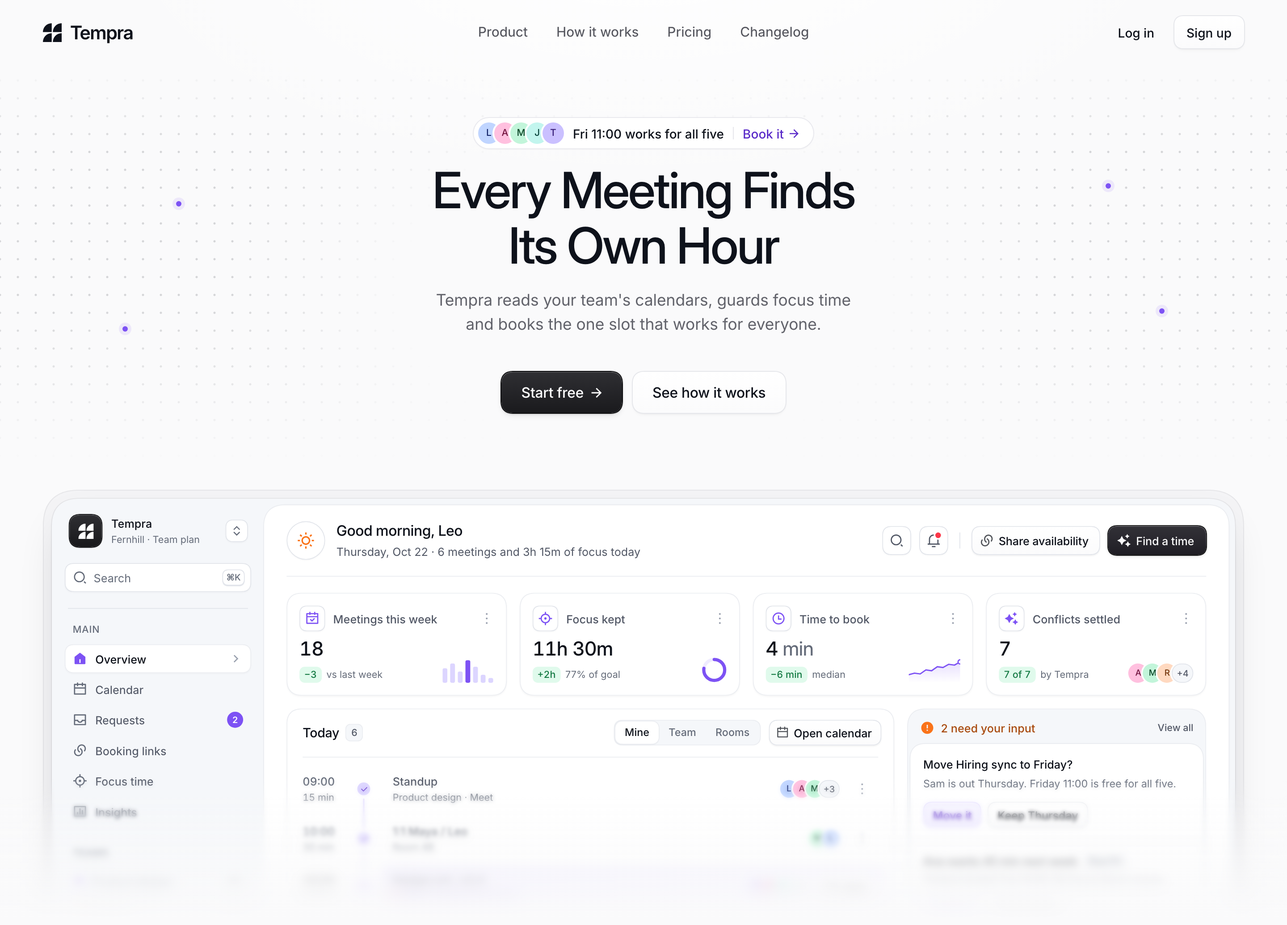
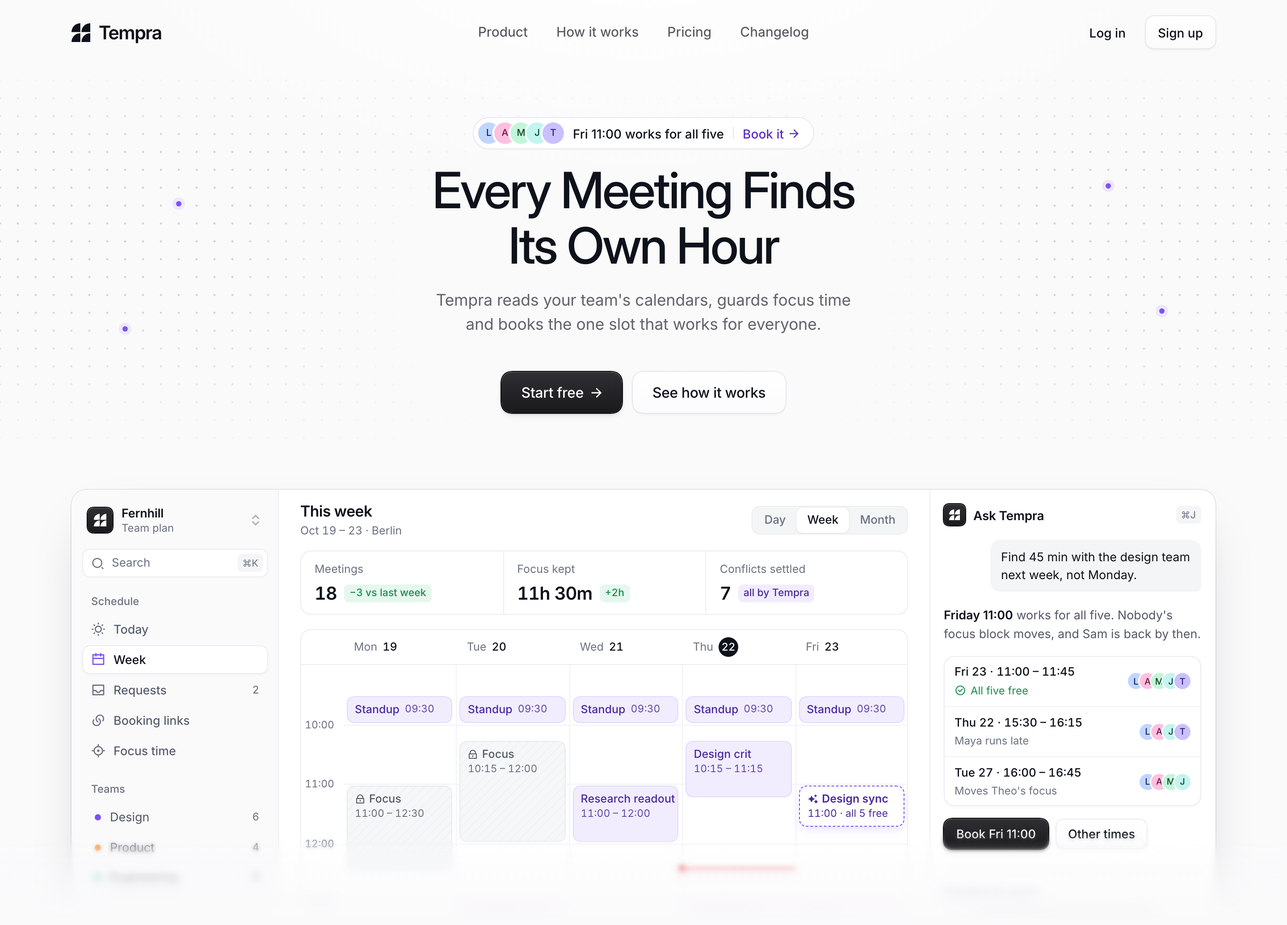
Tempra product r3: one window, quiet sidebar, one view (the week with the found slot), a 3-number strip and an Ask Tempra rail with one action; hero r7 holds that window alone on the nav's 80px edges, blur exit below the key moment; canon: three regions, no bezels, no KPI card rows

diff --git a/work/replicas/app/src/CadenceProductB.tsx b/work/replicas/app/src/CadenceProductB.tsx
@@ -1,0 +1,238 @@
+// Tempra product r3 (#/cprodb). cproda r2 was rejected: "too information heavy and unpolished and not clear... everything is a
+// little mess". The floor is our own accepted product grammar (Kestrel: sidebar + one view + one AI answer; Quorum: one joined
+// KPI strip): one white window with one hairline, a quiet sidebar, ONE primary view (the week, with the slot Tempra found), a
+// slim 3-number strip, and an Ask Tempra rail that answers and offers one action. Rounded per the founder: window 20,
+// cards 14, controls and events 10. One ink primary (Book). Solid pre-blended event fills so no gridline shows through. Sample data.
+import type { CSSProperties, ReactNode } from 'react'
+import {
+  RiCalendarLine, RiInboxLine, RiLinksLine, RiFocus3Line, RiSearch2Line, RiExpandUpDownLine, RiLockLine, RiSparkling2Fill,
+  RiArrowUpLine, RiMore2Line, RiSunLine, RiCheckboxCircleLine, RiArrowGoForwardLine, RiCloseCircleLine, RiShieldCheckLine,
+} from '@remixicon/react'
+import { Mark } from './TempraLogo'
+
+export const APP_W = 1280, APP_H = 820
+const T = {
+  ink: '#0E121B', sub: '#525866', mute: '#6B7180', faint: '#A3A9B6', line: '#ECEDF1', hair: '#F1F2F5', side: '#FAFAFB', weak: '#F4F5F7',
+  v: '#7D52F4', vInk: '#4B2A9E', vFill: '#F1EDFE', vRing: '#E2D9FD', pFill: '#FDEDF4', pRing: '#F7D5E4', pInk: '#8A1D4C',
+  green: '#178C4E', greenFill: '#E6F8EE', red: '#E5484D',
+}
+const font: CSSProperties = { fontFamily: '"Inter Variable", Inter, system-ui, sans-serif', fontOpticalSizing: 'auto', WebkitFontSmoothing: 'antialiased', color: T.ink }
+const row: CSSProperties = { display: 'flex', alignItems: 'center' }
+const tnum: CSSProperties = { fontVariantNumeric: 'tabular-nums' }
+const abs = (x: number, y: number, w?: number, h?: number, s: CSSProperties = {}): CSSProperties => ({ position: 'absolute', left: x, top: y, width: w, height: h, ...s })
+const RING = `inset 0 0 0 1px ${T.line}`
+const ink: CSSProperties = { background: 'linear-gradient(#2f2f33, #1a1a1d)', color: '#fff', boxShadow: '0 0 0 1px #0d0d0f, inset 0 1px 0 rgba(255,255,255,0.12), 0 1px 2px rgba(14,18,27,0.2)' }
+const stroke: CSSProperties = { background: 'linear-gradient(#FFFFFF, #FBFBFC)', color: T.ink, boxShadow: `inset 0 0 0 1px ${T.line}, 0 1px 2px rgba(14,18,27,0.05)` }
+const TINT: Record<string, [string, string]> = { L: ['#C0D5FF', '#122368'], A: ['#FFC0DF', '#71133E'], M: ['#C2F5DA', '#0B4627'], J: ['#C2F5EE', '#0B463E'], T: ['#CAC0FF', '#351A75'], S: ['#FFECC0', '#624C18'] }
+const Av = ({ i, s = 18 }: { i: string; s?: number }) => <span className="round" style={{ width: s, height: s, borderRadius: 999, background: TINT[i][0], color: TINT[i][1], boxShadow: '0 0 0 1.5px #fff', display: 'grid', placeItems: 'center', fontSize: Math.max(10, s * 0.46), fontWeight: 500, flex: 'none' }}>{i}</span>
+const Stack = ({ ids, s = 18 }: { ids: string[]; s?: number }) => <span style={{ ...row }}>{ids.map((i, k) => <span key={i} style={{ marginLeft: k ? -5 : 0, display: 'flex' }}><Av i={i} s={s} /></span>)}</span>
+
+// ================= sidebar =================
+function Item({ icon, label, active, count }: { icon: ReactNode; label: string; active?: boolean; count?: string }) {
+  return (
+    <div style={{ ...row, gap: 9, height: 32, padding: '0 10px', borderRadius: 10, background: active ? '#fff' : 'transparent', boxShadow: active ? `inset 0 0 0 1px ${T.line}, 0 1px 2px rgba(14,18,27,0.04)` : 'none', fontSize: 13.5, fontWeight: active ? 500 : 450, color: active ? T.ink : T.sub }}>
+      <span style={{ display: 'flex', color: active ? T.v : T.mute }}>{icon}</span>
+      <span style={{ flex: 1 }}>{label}</span>
+      {count && <span style={{ fontSize: 12, color: T.mute, ...tnum }}>{count}</span>}
+    </div>
+  )
+}
+const Group = ({ children }: { children: ReactNode }) => <div style={{ height: 28, padding: '0 10px', display: 'flex', alignItems: 'flex-end', paddingBottom: 6, boxSizing: 'border-box', fontSize: 12, fontWeight: 500, color: T.mute }}>{children}</div>
+function Sidebar() {
+  return (
+    <aside style={{ width: 232, flex: 'none', background: T.side, boxShadow: `inset -1px 0 0 ${T.line}`, padding: '14px 12px', boxSizing: 'border-box', display: 'flex', flexDirection: 'column' }}>
+      <div style={{ ...row, gap: 10, height: 40, padding: '0 6px' }}>
+        <span style={{ display: 'grid', placeItems: 'center', width: 28, height: 28, borderRadius: 8, ...ink }}><Mark size={14} /></span>
+        <span style={{ flex: 1, display: 'flex', flexDirection: 'column' }}>
+          <span style={{ fontSize: 13.5, fontWeight: 600, lineHeight: '18px', letterSpacing: '-0.01em' }}>Fernhill</span>
+          <span style={{ fontSize: 12, lineHeight: '16px', color: T.mute }}>Team plan</span>
+        </span>
+        <RiExpandUpDownLine size={16} color={T.faint} />
+      </div>
+      <div style={{ ...row, gap: 8, height: 32, marginTop: 12, padding: '0 6px 0 10px', borderRadius: 10, background: '#fff', boxShadow: `inset 0 0 0 1px ${T.line}`, fontSize: 13, color: T.mute }}>
+        <RiSearch2Line size={15} /><span style={{ flex: 1 }}>Search</span>
+        <span style={{ height: 20, padding: '0 5px', borderRadius: 6, background: T.weak, display: 'grid', placeItems: 'center', fontSize: 11, color: T.mute }}>⌘K</span>
+      </div>
+      <div style={{ marginTop: 14 }}><Group>Schedule</Group></div>
+      <div style={{ display: 'flex', flexDirection: 'column', gap: 2 }}>
+        <Item icon={<RiSunLine size={16} />} label="Today" />
+        <Item icon={<RiCalendarLine size={16} />} label="Week" active />
+        <Item icon={<RiInboxLine size={16} />} label="Requests" count="2" />
+        <Item icon={<RiLinksLine size={16} />} label="Booking links" />
+        <Item icon={<RiFocus3Line size={16} />} label="Focus time" />
+      </div>
+      <div style={{ marginTop: 14 }}><Group>Teams</Group></div>
+      <div style={{ display: 'flex', flexDirection: 'column', gap: 2 }}>
+        {([['Design', T.v, '6'], ['Product', '#F2994A', '4'], ['Engineering', '#22B8A6', '9']] as const).map(([n, c, k]) => (
+          <div key={n} style={{ ...row, gap: 10, height: 32, padding: '0 10px 0 14px', fontSize: 13.5, color: T.sub }}>
+            <span className="round" style={{ width: 7, height: 7, borderRadius: 999, background: c }} /><span style={{ flex: 1 }}>{n}</span><span style={{ fontSize: 12, color: T.mute, ...tnum }}>{k}</span>
+          </div>
+        ))}
+      </div>
+      <div style={{ marginTop: 'auto', ...row, gap: 10, height: 44, padding: '0 6px', borderTop: `1px solid ${T.line}`, paddingTop: 10 }}>
+        <Av i="L" s={28} />
+        <span style={{ display: 'flex', flexDirection: 'column', flex: 1 }}>
+          <span style={{ fontSize: 13, fontWeight: 500, lineHeight: '17px' }}>Leo Park</span>
+          <span style={{ fontSize: 12, lineHeight: '16px', color: T.mute }}>leo@fernhill.co</span>
+        </span>
+        <RiMore2Line size={16} color={T.faint} />
+      </div>
+    </aside>
+  )
+}
+
+// ================= the week =================
+type Kind = 'v' | 'p' | 'focus'
+const EVENTS: [number, number, number, string, Kind][] = [
+  [0, 9.5, 10, 'Standup', 'v'], [0, 11, 12.5, 'Focus', 'focus'], [0, 14, 15, 'Design review', 'p'], [0, 16, 17, 'Interview', 'v'],
+  [1, 9.5, 10, 'Standup', 'v'], [1, 10.25, 12, 'Focus', 'focus'], [1, 13, 14, 'Customer call', 'p'], [1, 15.5, 16.5, '1:1 Maya', 'v'],
+  [2, 9.5, 10, 'Standup', 'v'], [2, 11, 12, 'Research readout', 'v'], [2, 14, 16, 'Focus', 'focus'],
+  [3, 9.5, 10, 'Standup', 'v'], [3, 10.25, 11.25, 'Design crit', 'v'], [3, 13, 14, 'Hiring panel', 'p'], [3, 15, 17, 'Focus', 'focus'],
+  [4, 9.5, 10, 'Standup', 'v'], [4, 13, 14, 'Retro', 'p'], [4, 15, 16, 'Plan next week', 'v'],
+]
+const fmt = (h: number) => `${String(Math.floor(h)).padStart(2, '0')}:${String(Math.round((h % 1) * 60)).padStart(2, '0')}`
+function Week({ w, h }: { w: number; h: number }) {
+  const G = 48, HEAD = 40, H0 = 9, HR = (h - HEAD) / 9, cw = (w - G) / 5
+  const y = (t: number) => HEAD + (t - H0) * HR
+  const days = ['Mon 19', 'Tue 20', 'Wed 21', 'Thu 22', 'Fri 23']
+  return (
+    <section aria-label="Sample week" style={{ position: 'relative', width: w, height: h, borderRadius: 14, background: '#fff', boxShadow: RING, overflow: 'hidden' }}>
+      {days.map((d, i) => {
+        const [dn, num] = d.split(' ')
+        return (
+          <div key={d} style={abs(G + i * cw, 0, cw, HEAD, { ...row, gap: 6, padding: '0 12px', boxSizing: 'border-box', fontSize: 12.5, color: T.mute })}>
+            {dn}
+            {i === 3
+              ? <span className="round" style={{ width: 22, height: 22, borderRadius: 999, background: T.ink, color: '#fff', display: 'grid', placeItems: 'center', fontSize: 12, fontWeight: 500, ...tnum }}>{num}</span>
+              : <span style={{ color: T.ink, fontWeight: 500, ...tnum }}>{num}</span>}
+          </div>
+        )
+      })}
+      <div style={abs(0, HEAD - 1, w, 1, { background: T.line })} />
+      {Array.from({ length: 9 }, (_, k) => H0 + k).map((t) => (
+        <div key={t}>
+          {t > H0 && <div style={abs(G, y(t), w - G, 1, { background: T.hair })} />}
+          <div style={abs(0, y(t) - 8, G - 10, 16, { textAlign: 'right', fontSize: 11.5, lineHeight: '16px', color: T.mute, ...tnum })}>{t > H0 ? fmt(t) : ''}</div>
+        </div>
+      ))}
+      {[1, 2, 3, 4].map((i) => <div key={i} style={abs(G + i * cw, HEAD, 1, h - HEAD, { background: T.hair })} />)}
+      {EVENTS.map(([d, a, b, title, k]) => {
+        const top = y(a) + 2, height = (b - a) * HR - 4, short = height < 40
+        const look: CSSProperties = k === 'v' ? { background: T.vFill, boxShadow: `inset 0 0 0 1px ${T.vRing}`, color: T.vInk }
+          : k === 'p' ? { background: T.pFill, boxShadow: `inset 0 0 0 1px ${T.pRing}`, color: T.pInk }
+          : { background: `repeating-linear-gradient(135deg, #F6F7F9 0 6px, #EFF1F4 6px 7px)`, boxShadow: `inset 0 0 0 1px #E7E9EE`, color: T.sub }
+        return (
+          <div key={`${d}${a}`} style={abs(G + d * cw + 4, top, cw - 8, height, { borderRadius: 10, boxSizing: 'border-box', padding: short ? '0 9px' : '7px 9px', display: 'flex', flexDirection: short ? 'row' : 'column', alignItems: short ? 'center' : 'stretch', gap: short ? 6 : 1, overflow: 'hidden', ...look })}>
+            <span style={{ ...row, gap: 4, fontSize: 12.5, fontWeight: 500, lineHeight: '16px', whiteSpace: 'nowrap' }}>{k === 'focus' && <RiLockLine size={12} />}{title}</span>
+            <span style={{ fontSize: 11.5, lineHeight: '15px', opacity: 0.85, whiteSpace: 'nowrap', ...tnum }}>{fmt(a)}{short ? '' : ` – ${fmt(b)}`}</span>
+          </div>
+        )
+      })}
+      {/* the slot Tempra found: Fri 11:00-11:45, free for all five */}
+      <div style={abs(G + 4 * cw + 4, y(11) + 2, cw - 8, 0.75 * HR - 4, { borderRadius: 10, boxSizing: 'border-box', padding: '6px 9px', background: '#fff', border: `1.5px dashed ${T.v}`, boxShadow: '0 4px 12px -4px rgba(125,82,244,0.28)', color: T.vInk, display: 'flex', flexDirection: 'column', gap: 1 })}>
+        <span style={{ ...row, gap: 4, fontSize: 12.5, fontWeight: 600, lineHeight: '16px', whiteSpace: 'nowrap' }}><RiSparkling2Fill size={12} />Design sync</span>
+        <span style={{ fontSize: 11.5, lineHeight: '15px', whiteSpace: 'nowrap', ...tnum }}>11:00 · all 5 free</span>
+      </div>
+      {/* now: Thursday column only, at a free moment so it crosses no event */}
+      <div style={abs(G + 3 * cw, y(12.4), cw, 2, { background: T.red, borderRadius: 1 })} />
+      <span className="round" style={abs(G + 3 * cw - 4, y(12.4) - 3, 8, 8, { borderRadius: 999, background: T.red })} />
+    </section>
+  )
+}
+
+// ================= Ask Tempra =================
+function Rail() {
+  const opts: [string, string, string[], boolean][] = [
+    ['Fri 23 · 11:00 – 11:45', 'All five free', ['L', 'A', 'M', 'J', 'T'], true],
+    ['Thu 22 · 15:30 – 16:15', 'Maya runs late', ['L', 'A', 'J', 'T'], false],
+    ['Tue 27 · 16:00 – 16:45', "Moves Theo's focus", ['L', 'A', 'M', 'J'], false],
+  ]
+  return (
+    <aside aria-label="Ask Tempra, sample answer" style={{ width: 320, flex: 'none', boxShadow: `inset 1px 0 0 ${T.line}`, display: 'flex', flexDirection: 'column', padding: '0 16px 16px', boxSizing: 'border-box' }}>
+      <div style={{ ...row, gap: 9, height: 56 }}>
+        <span style={{ display: 'grid', placeItems: 'center', width: 24, height: 24, borderRadius: 7, ...ink }}><Mark size={12} /></span>
+        <span style={{ fontSize: 14, fontWeight: 600, letterSpacing: '-0.01em' }}>Ask Tempra</span>
+        <span style={{ marginLeft: 'auto', height: 20, padding: '0 6px', borderRadius: 6, background: T.weak, display: 'grid', placeItems: 'center', fontSize: 11, color: T.mute }}>⌘J</span>
+      </div>
+      <div style={{ alignSelf: 'flex-end', maxWidth: 236, padding: '9px 12px', borderRadius: 14, borderBottomRightRadius: 6, background: T.weak, fontSize: 13.5, lineHeight: '20px' }}>Find 45 min with the design team next week, not Monday.</div>
+      <p style={{ margin: '16px 0 0', fontSize: 13.5, lineHeight: '21px', color: T.sub }}><b style={{ color: T.ink, fontWeight: 600 }}>Friday 11:00</b> works for all five. Nobody's focus block moves, and Sam is back by then.</p>
+      <div style={{ marginTop: 14, borderRadius: 14, background: '#fff', boxShadow: `${RING}, 0 1px 2px rgba(14,18,27,0.04)` }}>
+        {opts.map(([when, why, ids, best], k) => (
+          <div key={when} style={{ ...row, gap: 10, height: 56, padding: '0 12px', borderTop: k ? `1px solid ${T.hair}` : 'none' }}>
+            <span style={{ display: 'flex', flexDirection: 'column', gap: 2, flex: 1 }}>
+              <span style={{ fontSize: 13, fontWeight: 500, ...tnum }}>{when}</span>
+              <span style={{ ...row, gap: 5, fontSize: 12, color: best ? T.green : T.mute }}>{best && <RiCheckboxCircleLine size={13} />}{why}</span>
+            </span>
+            <Stack ids={ids} s={18} />
+          </div>
+        ))}
+      </div>
+      <div style={{ ...row, gap: 8, marginTop: 14 }}>
+        <span style={{ ...row, height: 34, padding: '0 14px', borderRadius: 11, fontSize: 13.5, fontWeight: 500, ...ink }}>Book Fri 11:00</span>
+        <span style={{ ...row, height: 34, padding: '0 14px', borderRadius: 11, fontSize: 13.5, fontWeight: 500, ...stroke }}>Other times</span>
+      </div>
+      <div style={{ marginTop: 24, paddingTop: 16, borderTop: `1px solid ${T.line}` }}>
+        <div style={{ fontSize: 12, fontWeight: 500, color: T.mute, marginBottom: 6 }}>Handled this week</div>
+        {([[<RiArrowGoForwardLine size={14} />, 'Moved Roadmap review to Wed', "Clashed with Ana's focus"], [<RiCloseCircleLine size={14} />, 'Declined a vendor demo', 'Outside working hours'], [<RiShieldCheckLine size={14} />, 'Protected 4 focus blocks', 'Mornings, Mon to Thu']] as const).map(([ic, t, d]) => (
+          <div key={t} style={{ ...row, gap: 10, height: 48 }}>
+            <span style={{ display: 'grid', placeItems: 'center', width: 28, height: 28, borderRadius: 9, background: T.weak, color: T.sub, flex: 'none' }}>{ic}</span>
+            <span style={{ display: 'flex', flexDirection: 'column', gap: 1 }}>
+              <span style={{ fontSize: 13, fontWeight: 500 }}>{t}</span>
+              <span style={{ fontSize: 12, color: T.mute }}>{d}</span>
+            </span>
+          </div>
+        ))}
+      </div>
+      <div style={{ marginTop: 'auto', ...row, gap: 8, height: 44, padding: '0 6px 0 14px', borderRadius: 14, background: '#fff', boxShadow: `${RING}, 0 1px 2px rgba(14,18,27,0.04)`, fontSize: 13.5, color: T.mute }}>
+        <span style={{ flex: 1 }}>Ask about your week…</span>
+        <span className="round" style={{ width: 30, height: 30, borderRadius: 999, display: 'grid', placeItems: 'center', background: T.weak, color: T.mute }}><RiArrowUpLine size={16} /></span>
+      </div>
+    </aside>
+  )
+}
+
+// ================= the window =================
+export function TempraApp({ inHero, style }: { inHero?: boolean; style?: CSSProperties }) {
+  const H1 = inHero ? 'p' : 'h1'
+  const Main = inHero ? 'div' : 'main'
+  const kpis: [string, string, string][] = [['Meetings', '18', '−3 vs last week'], ['Focus kept', '11h 30m', '+2h'], ['Conflicts settled', '7', 'all by Tempra']]
+  return (
+    <div data-product style={{ ...font, position: 'relative', width: APP_W, height: APP_H, borderRadius: 20, background: '#fff', overflow: 'hidden', display: 'flex', boxShadow: '0 0 0 1px rgba(14,18,27,0.08), 0 1px 2px rgba(14,18,27,0.04), 0 24px 60px -24px rgba(14,18,27,0.22)', ...style }}>
+      <Sidebar />
+      <Main aria-label="Tempra week, sample data" style={{ flex: 1, padding: '0 24px 24px', boxSizing: 'border-box', display: 'flex', flexDirection: 'column' }}>
+        <div style={{ ...row, height: 68 }}>
+          <div style={{ display: 'flex', flexDirection: 'column', gap: 2 }}>
+            <H1 style={{ margin: 0, fontSize: 17, lineHeight: '22px', fontWeight: 600, letterSpacing: '-0.015em' }}>This week</H1>
+            <span style={{ fontSize: 12.5, color: T.mute, ...tnum }}>Oct 19 – 23 · Berlin</span>
+          </div>
+          <div style={{ marginLeft: 'auto', ...row, height: 32, padding: 2, boxSizing: 'border-box', borderRadius: 11, background: T.weak, boxShadow: `inset 0 0 0 1px ${T.line}` }}>
+            {['Day', 'Week', 'Month'].map((o) => (
+              <span key={o} style={{ height: 28, padding: '0 12px', borderRadius: 9, display: 'grid', placeItems: 'center', fontSize: 13, fontWeight: 500, color: o === 'Week' ? T.ink : T.mute, background: o === 'Week' ? '#fff' : 'transparent', boxShadow: o === 'Week' ? `0 0 0 1px ${T.line}, 0 1px 2px rgba(14,18,27,0.06)` : 'none' }}>{o}</span>
+            ))}
+          </div>
+        </div>
+        <div style={{ display: 'flex', borderRadius: 14, boxShadow: RING, height: 72, flex: 'none' }}>
+          {kpis.map(([l, v, d], k) => (
+            <div key={l} style={{ flex: 1, padding: '12px 16px', boxShadow: k ? `inset 1px 0 0 ${T.line}` : 'none', display: 'flex', flexDirection: 'column', gap: 4 }}>
+              <span style={{ fontSize: 12.5, color: T.mute }}>{l}</span>
+              <span style={{ ...row, gap: 8 }}>
+                <span style={{ fontSize: 20, lineHeight: '26px', fontWeight: 600, letterSpacing: '-0.02em', ...tnum }}>{v}</span>
+                <span style={{ height: 20, padding: '0 6px', borderRadius: 6, display: 'grid', placeItems: 'center', fontSize: 11.5, fontWeight: 500, background: k === 2 ? T.vFill : T.greenFill, color: k === 2 ? T.vInk : T.green, ...tnum }}>{d}</span>
+              </span>
+            </div>
+          ))}
+        </div>
+        <div style={{ marginTop: 16 }}><Week w={APP_W - 232 - 320 - 48} h={APP_H - 68 - 72 - 16 - 24} /></div>
+      </Main>
+      <Rail />
+    </div>
+  )
+}
+
+export default function CadenceProductB() {
+  return (
+    <div style={{ width: 1440, height: 980, background: 'radial-gradient(1000px 600px at 50% 0%, #F7F7F9, #ECEDF0)', position: 'relative', overflow: 'hidden' }}>
+      <TempraApp style={{ position: 'absolute', left: 80, top: 80 }} />
+    </div>
+  )
+}

diff --git a/work/replicas/app/src/CadenceHeroD.tsx b/work/replicas/app/src/CadenceHeroD.tsx
@@ -1,4 +1,5 @@
-// Tempra hero r6 (#/h4a). r2 verdict: rounder product, "the background visual needs better polishing", the violet bottom glow
+// Tempra hero r7 (#/h4a): r3 rejected the bezel and the busy product; the hero now holds the r3 product window alone.
+// r6 notes: r2 verdict: rounder product, "the background visual needs better polishing", the violet bottom glow
 // was "stupid and vibrant, either blur fade out or none", "nav bar ugly", "title too", the grid and chips were distracting,
 // "I liked the points or bubbles... sth cleaner". So: a neutral page, a fine dot field (points) that lives only at the sides
 // and fades away from the copy, a handful of availability points lit in violet, a calmer h1, a nav on the frame's edges with a
@@ -6,9 +7,9 @@
 import type { CSSProperties } from 'react'
 import { RiArrowRightLine } from '@remixicon/react'
 import TempraLockup from './TempraLogo'
-import { CadenceAppFrame } from './CadenceProductA'
+import { TempraApp, APP_W } from './CadenceProductB'
 
-const W = 1440, H = 1035, INK = '#0E121B', PAGE = '#FAFAFB', EDGE = 48
+const W = 1440, H = 1035, INK = '#0E121B', PAGE = '#FAFAFB', EDGE = 80
 const abs = (x: number, y: number, s: CSSProperties = {}): CSSProperties => ({ position: 'absolute', left: x, top: y, ...s })
 
 // ---- the points: a 20px dot lattice kept to the sides (clear around the copy, gone before the product) ----
@@ -50,7 +51,7 @@ function FoundPill() {
 // ---- progressive blur: four backdrop-blur bands, each masked to start lower, then a fade to the page colour ----
 function BlurOut({ top }: { top: number }) {
   const h = H - top
-  const bands = [[2, 0], [4, 0.25], [8, 0.5], [14, 0.72]]
+  const bands = [[2, 0], [4, 0.2], [8, 0.42], [14, 0.64]]
   return (
     <div aria-hidden style={abs(0, top, { width: W, height: h, pointerEvents: 'none' })}>
       {bands.map(([b, from]) => {
@@ -63,8 +64,7 @@ function BlurOut({ top }: { top: number }) {
 }
 
 export default function CadenceHeroD() {
-  const S = (W - 2 * EDGE - 20) / 1472, TOP = 548
-  return (
+    return (
     <main style={{ position: 'relative', width: W, height: H, overflow: 'hidden', background: PAGE, fontFamily: '"Inter Variable", Inter, sans-serif', fontOpticalSizing: 'auto', WebkitFontSmoothing: 'antialiased', color: INK }}>
       <div aria-hidden style={{ position: 'absolute', inset: 0, background: 'radial-gradient(900px 420px at 50% -80px, #FFFFFF, rgba(255,255,255,0) 70%)' }} />
       <Points />
@@ -89,12 +89,11 @@ export default function CadenceHeroD() {
         <a href="#/h4a" style={{ height: 46, padding: '0 22px', borderRadius: 14, display: 'flex', alignItems: 'center', fontSize: 16, fontWeight: 500, letterSpacing: '-0.01em', textDecoration: 'none', ...white }}>See how it works</a>
       </div>
 
-      {/* product: a quiet grey bezel (r42) holding the app at a 10px inset; the app's own frame is r36 x S (concentric) */}
-      <div style={abs(EDGE, TOP, { width: W - 2 * EDGE, height: H - TOP + 40, borderRadius: 42, background: 'rgba(14,18,27,0.025)', boxShadow: 'inset 0 0 0 1px rgba(14,18,27,0.06)' })} />
-      <div style={abs(EDGE + 10, TOP + 10, { width: 1472, height: 1072, transform: `scale(${S})`, transformOrigin: '0 0' })}>
-        <CadenceAppFrame inHero />
+      {/* product: the app window alone, one hairline + one soft drop, on the same 80px edges as the nav (r3 verdict: no bezel) */}
+      <div style={abs(EDGE, 548, { width: APP_W, height: 820 })}>
+        <TempraApp inHero />
       </div>
-      <BlurOut top={870} />
+      <BlurOut top={930} />
     </main>
   )
 }

diff --git a/work/replicas/app/src/main.tsx b/work/replicas/app/src/main.tsx
@@ -32,6 +32,7 @@ import CadenceBentoL from './CadenceBentoL'
 import CadenceProductK from './CadenceProductK'
 import CadenceProductA, { CadenceProductAX } from './CadenceProductA'
 import CadenceHeroD from './CadenceHeroD'
+import CadenceProductB from './CadenceProductB'
 import { CadenceHeroA, CadenceHeroB, CadenceHeroC } from './CadenceHeroes3'
 import { CadenceHeroV1, CadenceHeroV2, CadenceHeroV3 } from './CadenceHeroes'
 import RicoR1 from './RicoR1'
@@ -52,6 +53,6 @@ import KargulHeroC from './KargulHeroC'
 import KargulHeroD from './KargulHeroD'
 
 // replicas: #/finance (AlignUI Transactions); more references are added as routes
-const ROUTES: Record<string, () => React.JSX.Element> = { '#/finance': Finance, '#/clokora': Clokora, '#/decision': Decision, '#/search': Search, '#/calendar': Calendar, '#/event': EventCard, '#/bento': Bento, '#/kiso': KargulIso, '#/bentok': BentoK, '#/khero': KargulHero, '#/attio': AttioHero, '#/linear': LinearHero, '#/glass': CadenceGlass, '#/lbento': LinearBento, '#/abento': AttioBento, '#/alignbento': AlignBento, '#/affectbento': AffectBento, '#/cfig': CadenceFig, '#/cattio': CadenceAttio, '#/calign': CadenceAlign, '#/caffect': CadenceAffect, '#/tkanban': TanjimKanban, '#/capp': CadenceApp, '#/chero': CadenceHero, '#/crico': CadenceRico, '#/cxpost': CadenceXPost, '#/cxslices': CadenceXSlices, '#/cbentol': CadenceBentoL, '#/cprodk': CadenceProductK, '#/cproda': CadenceProductA, '#/cprodax': CadenceProductAX, '#/h4a': CadenceHeroD, '#/h3a': CadenceHeroA, '#/h3b': CadenceHeroB, '#/h3c': CadenceHeroC, '#/chv1': CadenceHeroV1, '#/chv2': CadenceHeroV2, '#/chv3': CadenceHeroV3, '#/ricor1': RicoR1, '#/ricor2': RicoR2, '#/ricor3': RicoR3, '#/ricor4': RicoR4, '#/ricor5': RicoR5, '#/ricor6': RicoR6, '#/kargulr1': KargulR1, '#/kargulr2': KargulR2, '#/kargulr3': KargulR3, '#/kargulr4': KargulR4, '#/kargulr5': KargulR5, '#/kargulr6': KargulR6, '#/kheroa': KargulHeroA, '#/kherob': KargulHeroB, '#/kheroc': KargulHeroC, '#/kherod': KargulHeroD }
+const ROUTES: Record<string, () => React.JSX.Element> = { '#/finance': Finance, '#/clokora': Clokora, '#/decision': Decision, '#/search': Search, '#/calendar': Calendar, '#/event': EventCard, '#/bento': Bento, '#/kiso': KargulIso, '#/bentok': BentoK, '#/khero': KargulHero, '#/attio': AttioHero, '#/linear': LinearHero, '#/glass': CadenceGlass, '#/lbento': LinearBento, '#/abento': AttioBento, '#/alignbento': AlignBento, '#/affectbento': AffectBento, '#/cfig': CadenceFig, '#/cattio': CadenceAttio, '#/calign': CadenceAlign, '#/caffect': CadenceAffect, '#/tkanban': TanjimKanban, '#/capp': CadenceApp, '#/chero': CadenceHero, '#/crico': CadenceRico, '#/cxpost': CadenceXPost, '#/cxslices': CadenceXSlices, '#/cbentol': CadenceBentoL, '#/cprodk': CadenceProductK, '#/cproda': CadenceProductA, '#/cprodax': CadenceProductAX, '#/h4a': CadenceHeroD, '#/cprodb': CadenceProductB, '#/h3a': CadenceHeroA, '#/h3b': CadenceHeroB, '#/h3c': CadenceHeroC, '#/chv1': CadenceHeroV1, '#/chv2': CadenceHeroV2, '#/chv3': CadenceHeroV3, '#/ricor1': RicoR1, '#/ricor2': RicoR2, '#/ricor3': RicoR3, '#/ricor4': RicoR4, '#/ricor5': RicoR5, '#/ricor6': RicoR6, '#/kargulr1': KargulR1, '#/kargulr2': KargulR2, '#/kargulr3': KargulR3, '#/kargulr4': KargulR4, '#/kargulr5': KargulR5, '#/kargulr6': KargulR6, '#/kheroa': KargulHeroA, '#/kherob': KargulHeroB, '#/kheroc': KargulHeroC, '#/kherod': KargulHeroD }
 const View = ROUTES[location.hash] ?? Finance
 createRoot(document.getElementById('root')!).render(<StrictMode><View /></StrictMode>)

diff --git a/knowledge/founder/founder-taste.md b/knowledge/founder/founder-taste.md
@@ -554,3 +554,5 @@ One line per founder verdict, appended by tools/verdict.mjs. The quoted words ar
 - 2026-10-22 · cproda r1 · partial: "not bad not bad just check your grays and colors to just match and be consistent same as buttons... that gray box with like alert is not the same gray as the sidebar or elsewhere used and it's too dark and stupid... you're getting better at it, and get me the 3 split parts like screenshots high quality of it next time just polish everything with consistency and proper design theory" (ledger: ledger/entries/cproda.json r1; canon: product-ui; shot: ledger/shots/2026-10-22-cproda-r1-fold.png)
 - 2026-10-22 · h4a r1 · partial: "YESS finally sth new and getting somewhere... just don't copy too close marcel, rather focus on doing your own stuff quality in our own style... DONT MAKE IT ONE TO ONE COPY... SAME WITH THE NAME ITS LITERALLY THE SAME CHANGE INTO STH ELSE... logo from pinterest as we always did... the dashboard itself just looks strangely with those buttons and colorways like sth is off... and hero is not polished at all has random stuff visible like no fade bottom or if not then proper cut off" (ledger: ledger/entries/h4a.json r1; canon: hero-light; shot: ledger/shots/2026-10-22-h4a-r1-fold.png)
 - 2026-10-22 · h4a r2 · partial: "hero needs polishing... make stuff more rounded everywhere in product too and its buttons... the background visual needs better polishing and the fade out what the actual fuck is that? so stupid and vibrant, either blur fade out or none... nav bar also ugly... and title too... the visual around shouldn't be so distracting, I liked the points or bubbles, think of sth cleaner and more polished" (ledger: ledger/entries/h4a.json r2; canon: hero-light; shot: ledger/shots/2026-10-22-h4a-r2-fold.png)
+- 2026-10-22 · cproda r2 · reject: "our product itself just idk looks too information heavy and unpolished and not clear nor nicely styled for me... everything is a little mess there" (ledger: ledger/entries/cproda.json r2; canon: product-ui; shot: ledger/shots/2026-10-22-cproda-r2-fold.png)
+- 2026-10-22 · h4a r3 · reject: "idk the hero even worse now.. the way like outside border of the product the colors the bg like wtf variant... just needs polishing and clipping properly" (ledger: ledger/entries/h4a.json r3; canon: hero-light; shot: ledger/shots/2026-10-22-h4a-r3-fold.png)

diff --git a/work/cadence-app/PRODB-DIRECTION.md b/work/cadence-app/PRODB-DIRECTION.md
@@ -1,0 +1,16 @@
+# Tempra product r3 (`#/cprodb`)
+
+scope: one product window (1280x820), light; X carousel = the window on a grey canvas with 80px margins, 3 strips
+motion: none
+mode: C, floor = our own accepted product grammar: Kestrel (sidebar + one view + one AI answer) and Quorum (one joined KPI strip)
+kind: product-ui
+why: cproda r2 rejected ("too information heavy and unpolished and not clear... everything is a little mess")
+
+- One window, one hairline, one soft drop. No bezels.
+- One primary view: the week (9:00-18:00 fills the card). The slot Tempra found is the only dashed, lifted event.
+- A 3-number strip (Quorum joined strip), one AI rail: question, answer, three ranked times, one ink primary (Book), a quiet "Handled this week" list, the composer.
+- Rounded: window 20, cards 14, events and controls 10-11, chips 6.
+- Solid pre-blended event tints: violet (team), pink (external), hatched grey (focus). The now-line only in today's column, at a free moment.
+
+- override: radius.ladder.product because the founder asked for a rounder product than the Kestrel ladder
+- override: shadow.levels.product because the window drop, controls and the found slot each carry one named recipe

diff --git a/knowledge/founder/canon/product-ui.md b/knowledge/founder/canon/product-ui.md
@@ -98,3 +98,11 @@ Decided, replacing the Kargul-sharp option as a default:
   - a chart tooltip sits outside the plot, and the active column is an opaque band over the gridlines;
   - selected fills are solid, never alpha over gridlines.
 - Floor: `work/cadence-app/product-align@2x.png` (`#/cproda`, r2, awaiting verdict).
+
+## Founder verdict 2026-10-22 (cproda r2, reject) and r3 floor
+"too information heavy and unpolished and not clear nor nicely styled... everything is a little mess". The six-block dashboard (KPI cards, timeline, decision tray, link card, chart, team table) inside a frame + bezel + panel is the failure. The default for our own product shots is now:
+- **One window:** one hairline and one soft drop. No grey bezels, no double frames.
+- **Three regions at most:** a quiet sidebar, ONE primary view, and one AI rail that answers one question and offers one action (ink).
+- **Numbers:** at most one slim joined strip of 3, never a row of KPI cards.
+- **Everything else** goes in overlays, never on the page.
+- Floor: `work/cadence-app/product-b@2x.png` (`#/cprodb`, r3, awaiting verdict).
